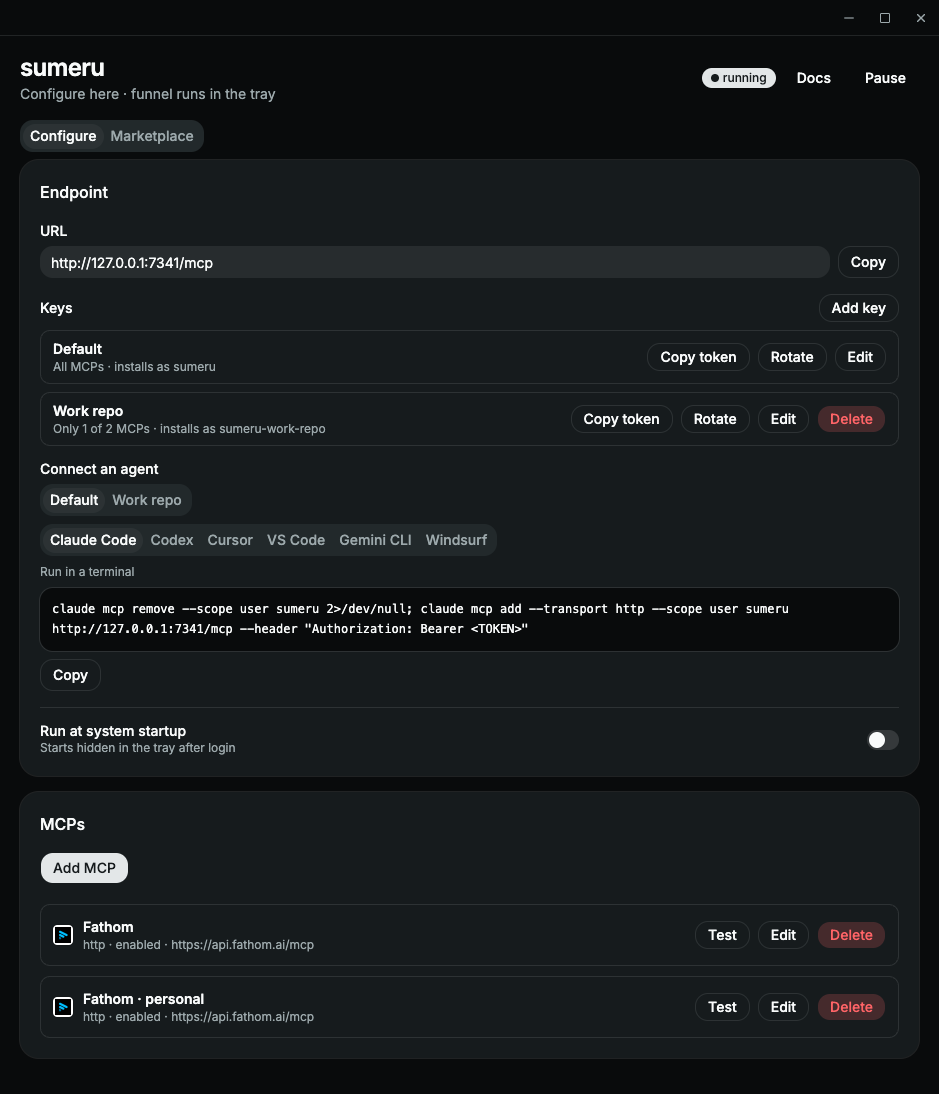
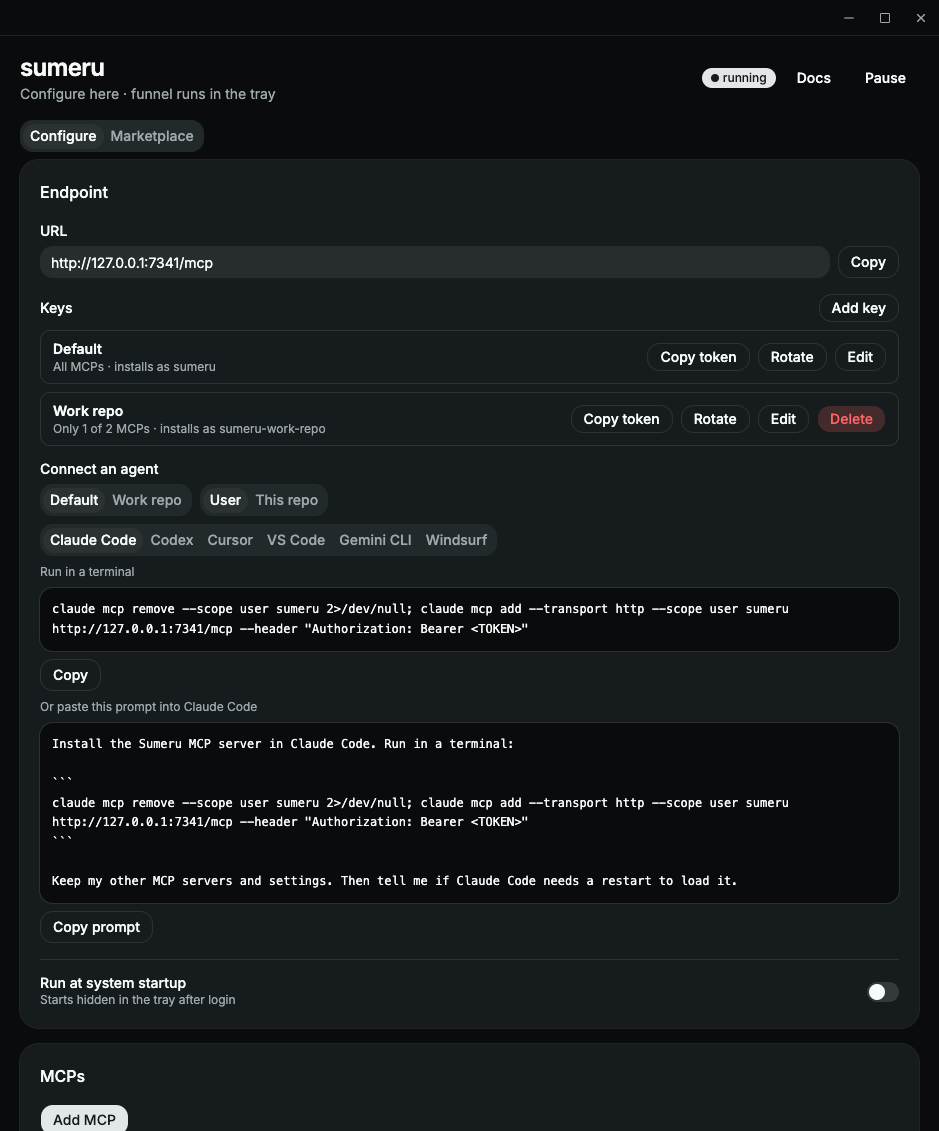
feat: paste-in install prompt on Connect an Agent
Both UIs show a prompt for the selected agent, key and scope that wraps the
install command/snippet so the agent installs Sumeru itself. agentPrompt lives
in agents.js and is mirrored byte-for-byte in Recipes.swift (tests in both).

diff --git a/src/lib/agents.test.js b/src/lib/agents.test.js
@@ -1,6 +1,6 @@
 import assert from "node:assert/strict";
 import { describe, it } from "node:test";
-import { agentInstalls } from "./agents.js";
+import { agentInstalls, agentPrompt } from "./agents.js";
 
 const URL_ = "http://127.0.0.1:7341/mcp";
 const TOKEN = "tok+/=";
@@ -78,5 +78,17 @@ describe("agent install recipes", () => {
     assert.equal(vscode.inputs[0].password, true);
     assert.equal(vscode.servers["sumeru-work"].headers.Authorization, `Bearer \${input:${vscode.inputs[0].id}}`);
     assert.match(find("gemini"), /--scope project --transport http sumeru-work http\S+ --header 'Authorization: Bearer \$\{SUMERU_WORK_TOKEN\}'$/);
+  });
+
+  it("builds a paste-in prompt around the recipe", () => {
+    assert.equal(
+      agentPrompt(byId("codex")),
+      `Install the Sumeru MCP server in Codex. Paste into ~/.codex/config.toml (replace any existing [mcp_servers.sumeru]):\n\n\`\`\`\n${byId("codex").text}\n\`\`\`\n\nKeep my other MCP servers and settings. Then tell me if Codex needs a restart to load it.`,
+    );
+    assert.match(agentPrompt(byId("cursor")), /in Cursor\. Paste into ~\/\.cursor\/mcp\.json:\n/);
+    const repo = agentInstalls(URL_, TOKEN, "sumeru", "SUMERU_TOKEN")[0];
+    const p = agentPrompt(repo, "SUMERU_TOKEN");
+    assert.ok(p.includes(repo.text) && !p.includes(TOKEN));
+    assert.match(p, /reads the token from \$SUMERU_TOKEN; never write the token into the repo\./);
   });
 });

diff --git a/src/components/Endpoint.svelte b/src/components/Endpoint.svelte
@@ -12,7 +12,7 @@
   import * as Card from "$lib/components/ui/card/index.js";
   import { Separator } from "$lib/components/ui/separator/index.js";
   import * as Tabs from "$lib/components/ui/tabs/index.js";
-  import { agentInstalls } from "$lib/agents.js";
+  import { agentInstalls, agentPrompt } from "$lib/agents.js";
   import { agentServerName, scopeLabel, tokenEnvVar } from "$lib/keys.js";
   import KeyEditor from "./KeyEditor.svelte";
 
@@ -204,6 +204,15 @@
           onclick={() => copy(`export ${env}=${selected?.token ?? ""}`)}>Copy export</Button
         >
       {/if}
+      <p class="text-muted-foreground text-xs m-0">Or paste this prompt into {shown.name}</p>
+      <pre
+        class="m-0 overflow-auto whitespace-pre-wrap break-words rounded-2xl bg-background p-3 font-mono text-xs leading-relaxed text-foreground ring-1 ring-foreground/10"
+      >{agentPrompt(shown, env)}</pre>
+      <Button
+        variant="outline"
+        class="w-fit"
+        onclick={() => copy(agentPrompt(install(selected?.token ?? ""), env))}>Copy prompt</Button
+      >
     </div>
     <Separator />
     <div class="flex items-center justify-between gap-4">

diff --git a/macos/Tests/SumeruKitTests/SumeruKitTests.swift b/macos/Tests/SumeruKitTests/SumeruKitTests.swift
@@ -78,6 +78,15 @@ let servers = ["a", "b", "c"].map { Server(id: $0, name: $0, enabled: true, tran
         #expect(recipe("vscode", repo).text.contains(#""password": true"#))
         #expect(recipe("vscode", repo).text.contains(#""Authorization": "Bearer ${input:sumeru-work-token}""#))
     }
+
+    @Test func pasteInPrompt() {
+        #expect(agentPrompt(recipe("codex")) == "Install the Sumeru MCP server in Codex. Paste into ~/.codex/config.toml (replace any existing [mcp_servers.sumeru]):\n\n```\n\(recipe("codex").text)\n```\n\nKeep my other MCP servers and settings. Then tell me if Codex needs a restart to load it.")
+        #expect(agentPrompt(recipe("cursor")).contains("in Cursor. Paste into ~/.cursor/mcp.json:\n"))
+        let repo = agentInstalls(url: url, token: token, env: "SUMERU_TOKEN")[0]
+        let p = agentPrompt(repo, env: "SUMERU_TOKEN")
+        #expect(p.contains(repo.text) && !p.contains(token))
+        #expect(p.contains("reads the token from $SUMERU_TOKEN; never write the token into the repo."))
+    }
 }
 
 // Mirrors src/lib/keys.test.js.

diff --git a/macos/Sources/SumeruKit/Recipes.swift b/macos/Sources/SumeruKit/Recipes.swift
@@ -88,6 +88,14 @@ public func agentInstalls(url: String, token: String, server: String = "sumeru",
     ]
 }
 
+/// Inputs: a recipe from `agentInstalls`, and `env` (repo scope's token env var, or "").
+/// Outputs: a prompt to paste into that agent so it installs Sumeru itself (`agentPrompt` in agents.js).
+public func agentPrompt(_ r: AgentRecipe, env: String = "") -> String {
+    let how = r.hint.replacingOccurrences(of: "^Click Add to [^,]+, or p", with: "P", options: .regularExpression)
+    let secret = env.isEmpty ? "" : " It reads the token from $\(env); never write the token into the repo."
+    return "Install the Sumeru MCP server in \(r.name). \(how):\n\n```\n\(r.text)\n```\n\nKeep my other MCP servers and settings.\(secret) Then tell me if \(r.name) needs a restart to load it."
+}
+
 /// Inputs: endpoint URL, server name, env var holding the key's token.
 /// Outputs: repo-level recipes safe to commit (env var or VS Code password prompt, never the token).
 func repoInstalls(url: String, server: String, env: String) -> [AgentRecipe] {

diff --git a/src/lib/agents.js b/src/lib/agents.js
@@ -57,6 +57,16 @@ export function agentInstalls(url, token, server = "sumeru", env = "") {
 }
 
 /**
+ * Inputs: a recipe from `agentInstalls`, and `env` (repo scope's token env var, or "").
+ * Outputs: a prompt to paste into that agent so it installs Sumeru itself.
+ */
+export function agentPrompt(r, env = "") {
+  const how = r.hint.replace(/^Click Add to [^,]+, or p/, "P");
+  const secret = env ? ` It reads the token from $${env}; never write the token into the repo.` : "";
+  return `Install the Sumeru MCP server in ${r.name}. ${how}:\n\n\`\`\`\n${r.text}\n\`\`\`\n\nKeep my other MCP servers and settings.${secret} Then tell me if ${r.name} needs a restart to load it.`;
+}
+
+/**
  * Inputs: endpoint URL, MCP server name, env var holding the key's token.
  * Outputs: repo-level recipes that are safe to commit — they reference the env var (or a
  * VS Code password prompt), never the token. Windsurf has no project-level MCP config.

diff --git a/macos/Sources/SumeruUI/ConnectView.swift b/macos/Sources/SumeruUI/ConnectView.swift
@@ -62,6 +62,16 @@ struct ConnectView: View {
                     }
                 }
             }
+            if let shown {
+                Section {
+                    Text(agentPrompt(shown, env: env)).font(.callout.monospaced()).textSelection(.enabled)
+                        .frame(maxWidth: .infinity, alignment: .leading)
+                } header: {
+                    Text("Or paste this prompt into \(shown.name)")
+                } footer: {
+                    HStack { Spacer(); Button("Copy Prompt") { model.copy(agentPrompt(real ?? shown, env: env)) } }
+                }
+            }
         }
         .formStyle(.grouped)
         .onChange(of: repo) { if shown?.id != agent { agent = shown?.id ?? agent } }

diff --git a/README.md b/README.md
@@ -79,7 +79,7 @@ The funnel starts automatically on launch and keeps running in the menu bar (mac
 - Browser `Origin` requests are rejected
 - Transport: stateless Streamable HTTP with JSON POSTs; GET `/mcp` returns a keep-alive SSE stream
 
-**Connect an Agent** builds the install command/snippet for Claude Code, Codex, Cursor, VS Code, Gemini CLI, and Windsurf, with one-click **Add to Cursor** / **Add to VS Code** deeplinks (`src/lib/agents.js`, mirrored byte-for-byte in `macos/Sources/SumeruKit/Recipes.swift`). Pick an API key to scope it, and **This repo** for a committable project config that reads the token from an env var instead of containing it.
+**Connect an Agent** builds the install command/snippet for Claude Code, Codex, Cursor, VS Code, Gemini CLI, and Windsurf, with one-click **Add to Cursor** / **Add to VS Code** deeplinks and a **Copy prompt** you can paste into the agent so it installs itself (`src/lib/agents.js`, mirrored byte-for-byte in `macos/Sources/SumeruKit/Recipes.swift`). Pick an API key to scope it, and **This repo** for a committable project config that reads the token from an env var instead of containing it.
 
 Example client config:
 

diff --git a/docs/cookbook/connect-agent.md b/docs/cookbook/connect-agent.md
@@ -16,7 +16,9 @@
 | Gemini CLI | **Copy** the `gemini mcp add …` command and run it in a terminal |
 | Windsurf | **Copy** the snippet into `~/.codeium/windsurf/mcp_config.json` |
 
-The preview masks the token; **Copy** and **Add to …** use the selected key's real token. Non-default keys install as `sumeru-<key name>`, so one agent can hold several. Agents store it in plain text in their config, and the CLI commands also land in your shell history — rotate the token if either leaks.
+Or let the agent do it: **Copy prompt** gives a prompt to paste into that agent's chat — it wraps the same command/snippet and asks the agent to install it, keep your other MCP servers, and say whether it needs a restart.
+
+The preview masks the token; **Copy**, **Copy prompt**, and **Add to …** use the selected key's real token. Non-default keys install as `sumeru-<key name>`, so one agent can hold several. Agents store it in plain text in their config, and the CLI commands also land in your shell history — rotate the token if either leaks.
 
 4. Reload MCP servers in your agent and call `list_mcps` to confirm your upstreams appear
 
